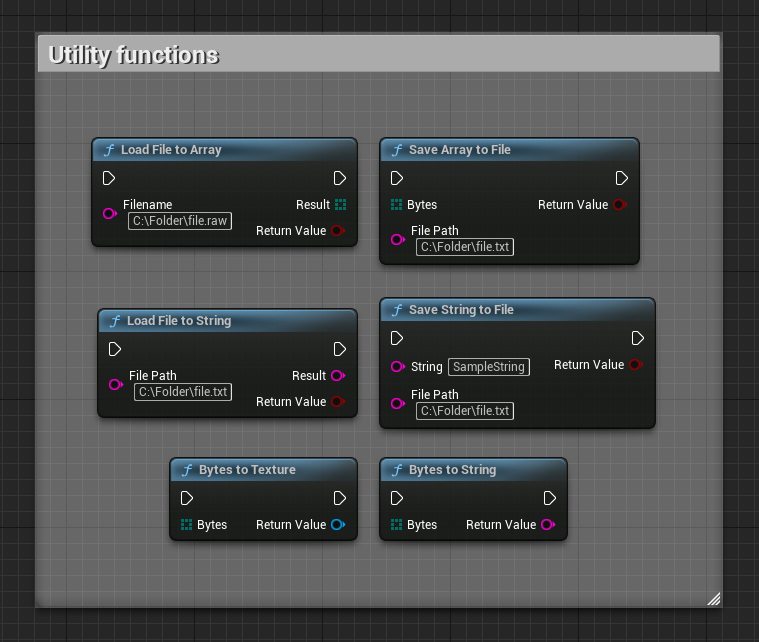
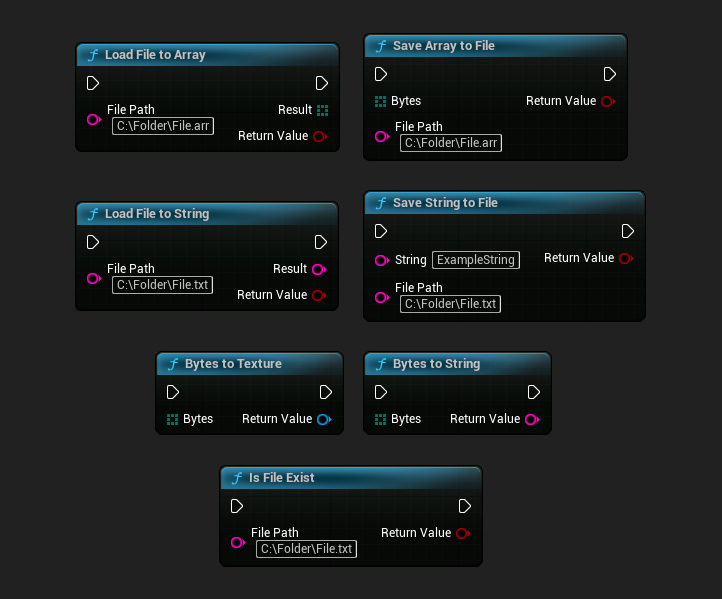
Functions commenting, some improvements, adding the IsFileExist function, documentation image update

diff --git a/Source/RuntimeFilesDownloader/Public/BaseFilesDownloader.h b/Source/RuntimeFilesDownloader/Public/BaseFilesDownloader.h
@@ -3,7 +3,6 @@
 #pragma once
 
 #include "Http.h"
-
 #include "BaseFilesDownloader.generated.h"
 
 /** Dynamic delegate to track download progress */
@@ -12,6 +11,7 @@ DECLARE_DYNAMIC_DELEGATE_TwoParams(FOnDownloadProgress, int32, BytesReceived, in
 /** Static delegate to track download progress */
 DECLARE_DELEGATE_TwoParams(FOnDownloadProgressNative, int32, int32);
 
+class UTexture2D;
 
 /**
  * Base class for downloading files. It also contains some helper functions
@@ -45,44 +45,73 @@ public:
 
 	/**
 	 * Convert bytes to string
+	 *
+	 * @param Bytes Byte array to convert to string
+	 * @return Converted string, empty on failure
 	 */
 	UFUNCTION(BlueprintCallable, Category = "Runtime Files Downloader|Utilities")
 	static FString BytesToString(const TArray<uint8>& Bytes);
 
 	/**
-	 * Convert bytes to texture
+	 * Convert bytes to texture. This is fully engine-based functionality and may not be well optimized
+	 *
+	 * @param Bytes Byte array to convert to texture
+	 * @return Converted texture or nullptr on failure
 	 */
 	UFUNCTION(BlueprintCallable, Category = "Runtime Files Downloader|Utilities")
 	static UTexture2D* BytesToTexture(const TArray<uint8>& Bytes);
 
 	/**
 	 * Load a binary file to a dynamic array with two uninitialized bytes at end as padding
+	 *
+	 * @param FilePath Path to the file to load
+	 * @param Result Bytes representation of the loaded file
+	 * @return Whether the operation was successful or not
 	 */
 	UFUNCTION(BlueprintCallable, Category = "Runtime Files Downloader|Utilities")
-	static bool LoadFileToArray(TArray<uint8>& Result, const FString& Filename);
+	static bool LoadFileToArray(const FString& FilePath, TArray<uint8>& Result);
 
 	/**
 	 * Save a binary array to a file
+	 *
+	 * @param Bytes Byte array to save to file
+	 * @param FilePath Path to the file to save
+	 * @return Whether the operation was successful or not
 	 */
 	UFUNCTION(BlueprintCallable, Category = "Runtime Files Downloader|Utilities")
-	static bool SaveArrayToFile(const TArray<uint8>& Bytes, const FString& Filename);
+	static bool SaveArrayToFile(const TArray<uint8>& Bytes, const FString& FilePath);
 
 	/**
 	 * Load a text file to an FString.
 	 * Supports all combination of ANSI/Unicode files and platforms
 	 * 
-	 * @param Result string representation of the loaded file
-	 * @param Filename name of the file to load
+	 * @param Result String representation of the loaded file
+	 * @param FilePath Path to the file to load
+	 * @return Whether the operation was successful or not
 	 */
 	UFUNCTION(BlueprintCallable, Category = "Runtime Files Downloader|Utilities")
-	static bool LoadFileToString(FString& Result, const FString& Filename);
+	static bool LoadFileToString(FString& Result, const FString& FilePath);
 
 	/**
 	 * Write the string to a file.
 	 * Supports all combination of ANSI/Unicode files and platforms
+	 *
+	 * @param String String to save to file
+	 * @param FilePath Path to the file to save
+	 * @return Whether the operation was successful or not
 	 */
 	UFUNCTION(BlueprintCallable, Category = "Runtime Files Downloader|Utilities")
-	static bool SaveStringToFile(const FString& String, const FString& Filename);
+	static bool SaveStringToFile(const FString& String, const FString& FilePath);
+
+	/**
+	 * Returns true if this file was found, false otherwise
+	 *
+	 * @param FilePath Path to the file to check
+	 * @return Whether the operation was successful or not
+	 */
+	UFUNCTION(BlueprintCallable, Category = "Runtime Files Downloader|Utilities")
+	static bool IsFileExist(const FString& FilePath);
+
 
 protected:
 	/** Http download request */

diff --git a/Source/RuntimeFilesDownloader/Private/FileToStorageDownloader.cpp b/Source/RuntimeFilesDownloader/Private/FileToStorageDownloader.cpp
@@ -63,7 +63,7 @@ void UFileToStorageDownloader::DownloadFileToStorage(const FString& URL, const F
 #if ENGINE_MAJOR_VERSION >= 5 || ENGINE_MINOR_VERSION >= 26
 	const TSharedRef<IHttpRequest, ESPMode::ThreadSafe> HttpRequest{FHttpModule::Get().CreateRequest()};
 #else
-	const TSharedRef<IHttpRequest> HttpRequest {FHttpModule::Get().CreateRequest()};
+	const TSharedRef<IHttpRequest> HttpRequest{FHttpModule::Get().CreateRequest()};
 #endif
 
 	HttpRequest->SetVerb("GET");
@@ -163,8 +163,7 @@ void UFileToStorageDownloader::OnComplete_Internal(FHttpRequestPtr Request, FHtt
 	}
 
 	// Open / Create the file
-	IFileHandle* FileHandle = PlatformFile.OpenWrite(*FileSavePath);
-	if (FileHandle)
+	if (IFileHandle* FileHandle = PlatformFile.OpenWrite(*FileSavePath))
 	{
 		// Write the file
 		FileHandle->Write(Response->GetContent().GetData(), Response->GetContentLength());
@@ -172,13 +171,12 @@ void UFileToStorageDownloader::OnComplete_Internal(FHttpRequestPtr Request, FHtt
 		// Close the file
 		delete FileHandle;
 
-		Response.Reset();
-
 		BroadcastResult(EDownloadToStorageResult::SuccessDownloading);
 	}
 	else
 	{
 		UE_LOG(LogRuntimeFilesDownloader, Error, TEXT("Something went wrong while saving the file '%s'"), *FileSavePath);
+
 		BroadcastResult(EDownloadToStorageResult::SaveFailed);
 	}
 }

diff --git a/Source/RuntimeFilesDownloader/Private/FileToMemoryDownloader.cpp b/Source/RuntimeFilesDownloader/Private/FileToMemoryDownloader.cpp
@@ -91,12 +91,12 @@ void UFileToMemoryDownloader::DownloadFileToMemory(const FString& URL, float Tim
 
 void UFileToMemoryDownloader::OnComplete_Internal(FHttpRequestPtr Request, FHttpResponsePtr Response, bool bWasSuccessful)
 {
+	RemoveFromRoot();
+
 	HttpDownloadRequest = nullptr;
 
 	if (!Response.IsValid() || !EHttpResponseCodes::IsOk(Response->GetResponseCode()) || !bWasSuccessful)
 	{
-		BroadcastResult(TArray<uint8>(), EDownloadToMemoryResult::DownloadFailed);
-
 		UE_LOG(LogRuntimeFilesDownloader, Error, TEXT("An error occurred while downloading the file to memory"));
 
 		if (!Response.IsValid())
@@ -116,14 +116,12 @@ void UFileToMemoryDownloader::OnComplete_Internal(FHttpRequestPtr Request, FHttp
 			UE_LOG(LogRuntimeFilesDownloader, Error, TEXT("Download failed"));
 		}
 
+		BroadcastResult(TArray<uint8>(), EDownloadToMemoryResult::DownloadFailed);
+
 		return;
 	}
 
 	const TArray<uint8> ReturnBytes{TArray<uint8>(Response->GetContent().GetData(), Response->GetContentLength())};
 
-	Response.Reset();
-
 	BroadcastResult(ReturnBytes, EDownloadToMemoryResult::SuccessDownloading);
-
-	RemoveFromRoot();
 }

diff --git a/Source/RuntimeFilesDownloader/Private/BaseFilesDownloader.cpp b/Source/RuntimeFilesDownloader/Private/BaseFilesDownloader.cpp
@@ -51,7 +51,7 @@ UTexture2D* UBaseFilesDownloader::BytesToTexture(const TArray<uint8>& Bytes)
 	return FImageUtils::ImportBufferAsTexture2D(Bytes);
 }
 
-bool UBaseFilesDownloader::LoadFileToArray(TArray<uint8>& Result, const FString& Filename)
+bool UBaseFilesDownloader::LoadFileToArray(const FString& Filename, TArray<uint8>& Result)
 {
 	return FFileHelper::LoadFileToArray(Result, *Filename);
 }
@@ -71,13 +71,18 @@ bool UBaseFilesDownloader::SaveStringToFile(const FString& String, const FString
 	return FFileHelper::SaveStringToFile(String, *Filename);
 }
 
+bool UBaseFilesDownloader::IsFileExist(const FString& FilePath)
+{
+	return FPaths::FileExists(FilePath);
+}
+
 void UBaseFilesDownloader::BroadcastProgress(const int32 BytesReceived, const int32 ContentLength) const
 {
 	if (OnDownloadProgressNative.IsBound())
 	{
 		OnDownloadProgressNative.Execute(BytesReceived, ContentLength);
 	}
-	
+
 	if (OnDownloadProgress.IsBound())
 	{
 		OnDownloadProgress.Execute(BytesReceived, ContentLength);

diff --git a/Source/RuntimeFilesDownloader/Public/FileToStorageDownloader.h b/Source/RuntimeFilesDownloader/Public/FileToStorageDownloader.h
@@ -4,7 +4,6 @@
 
 #include "Http.h"
 #include "BaseFilesDownloader.h"
-
 #include "FileToStorageDownloader.generated.h"
 
 /** Possible results from a download request */

diff --git a/Source/RuntimeFilesDownloader/Public/FileToMemoryDownloader.h b/Source/RuntimeFilesDownloader/Public/FileToMemoryDownloader.h
@@ -4,7 +4,6 @@
 
 #include "Http.h"
 #include "BaseFilesDownloader.h"
-
 #include "FileToMemoryDownloader.generated.h"
 
 /**
